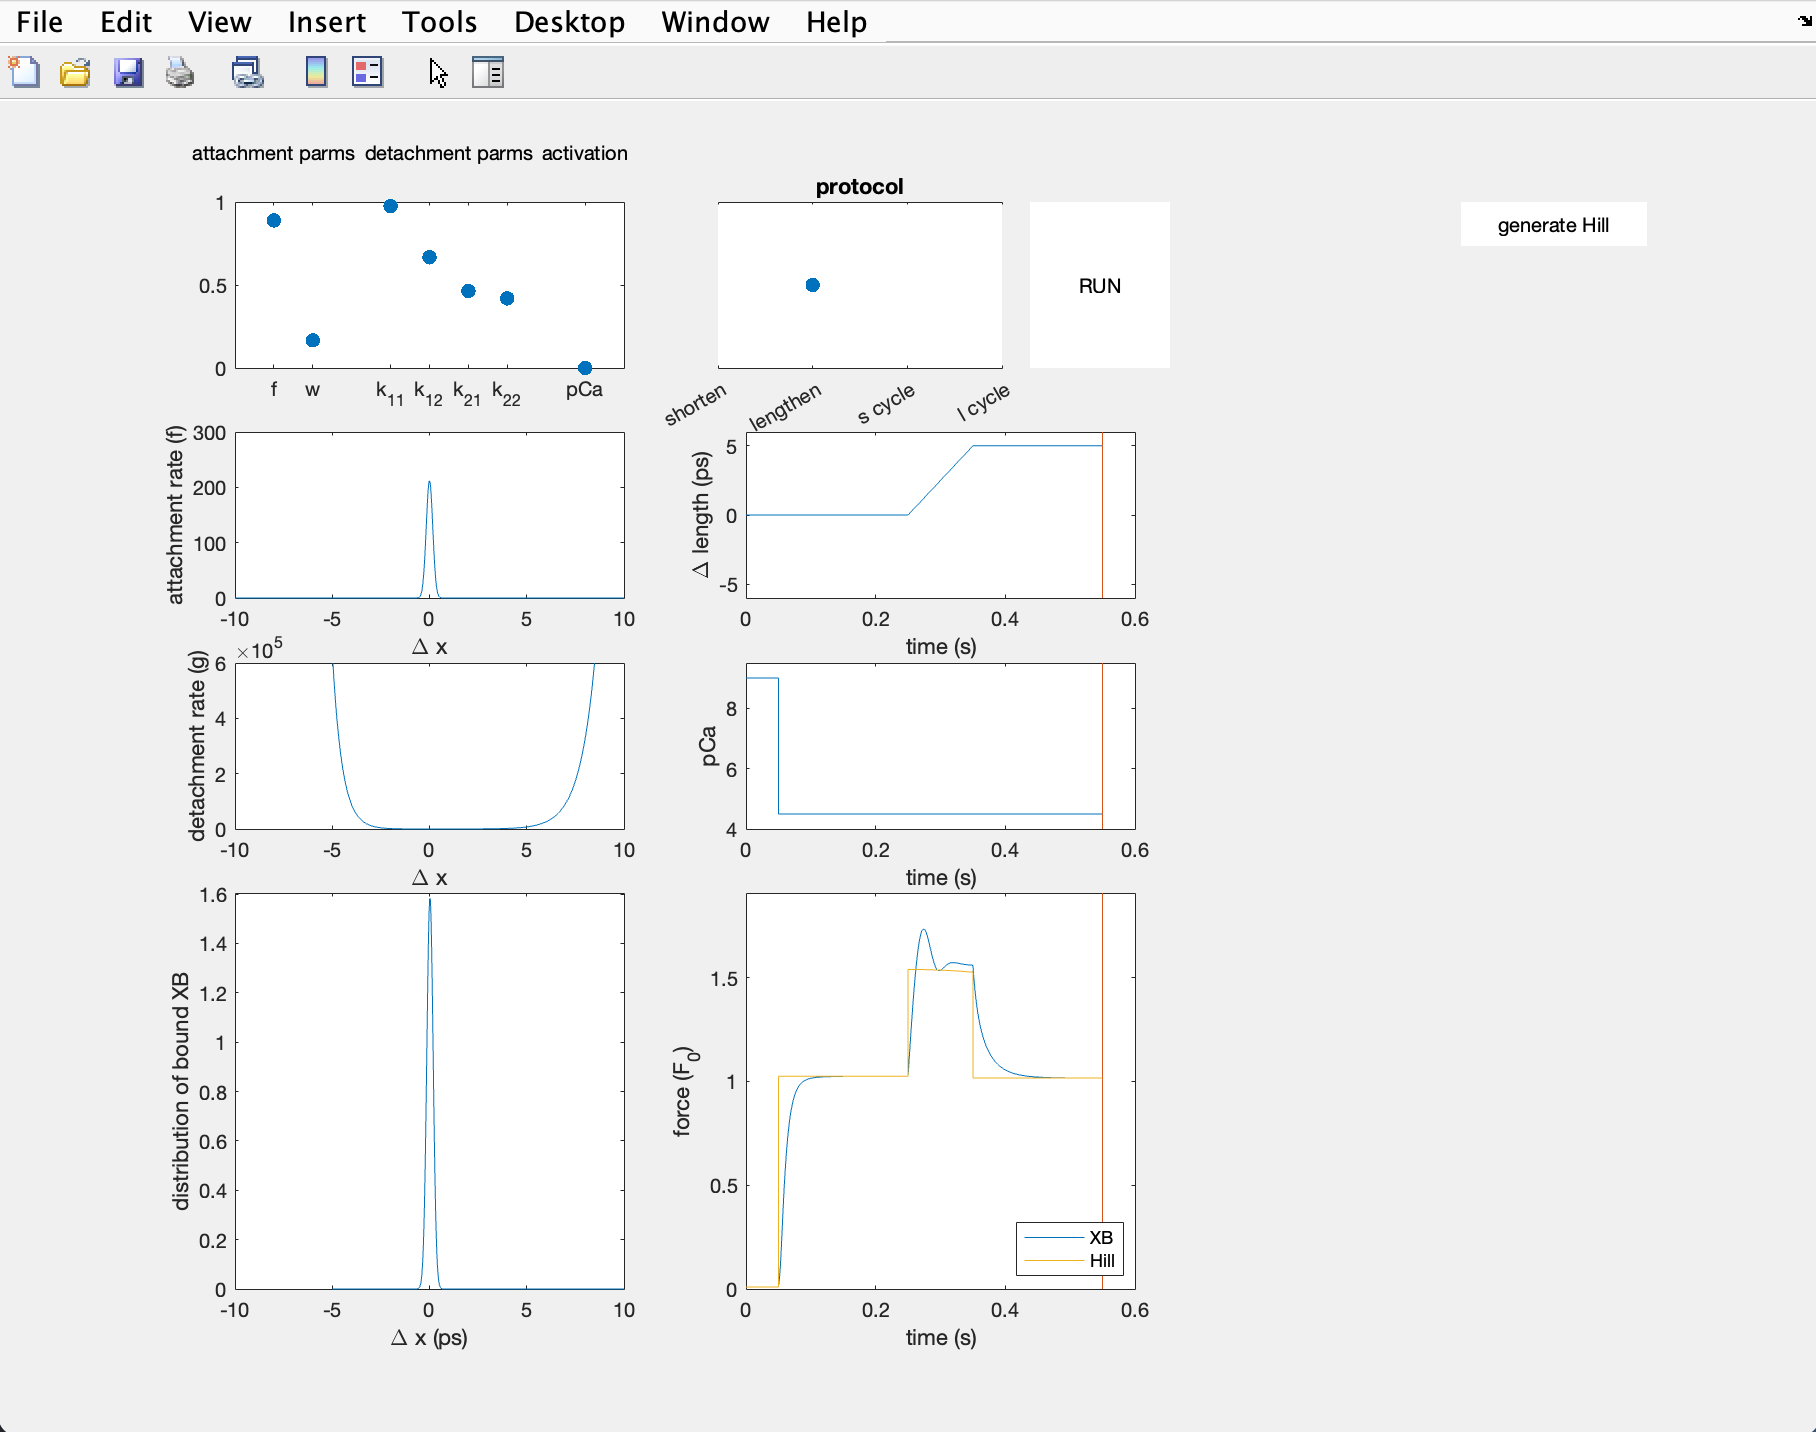
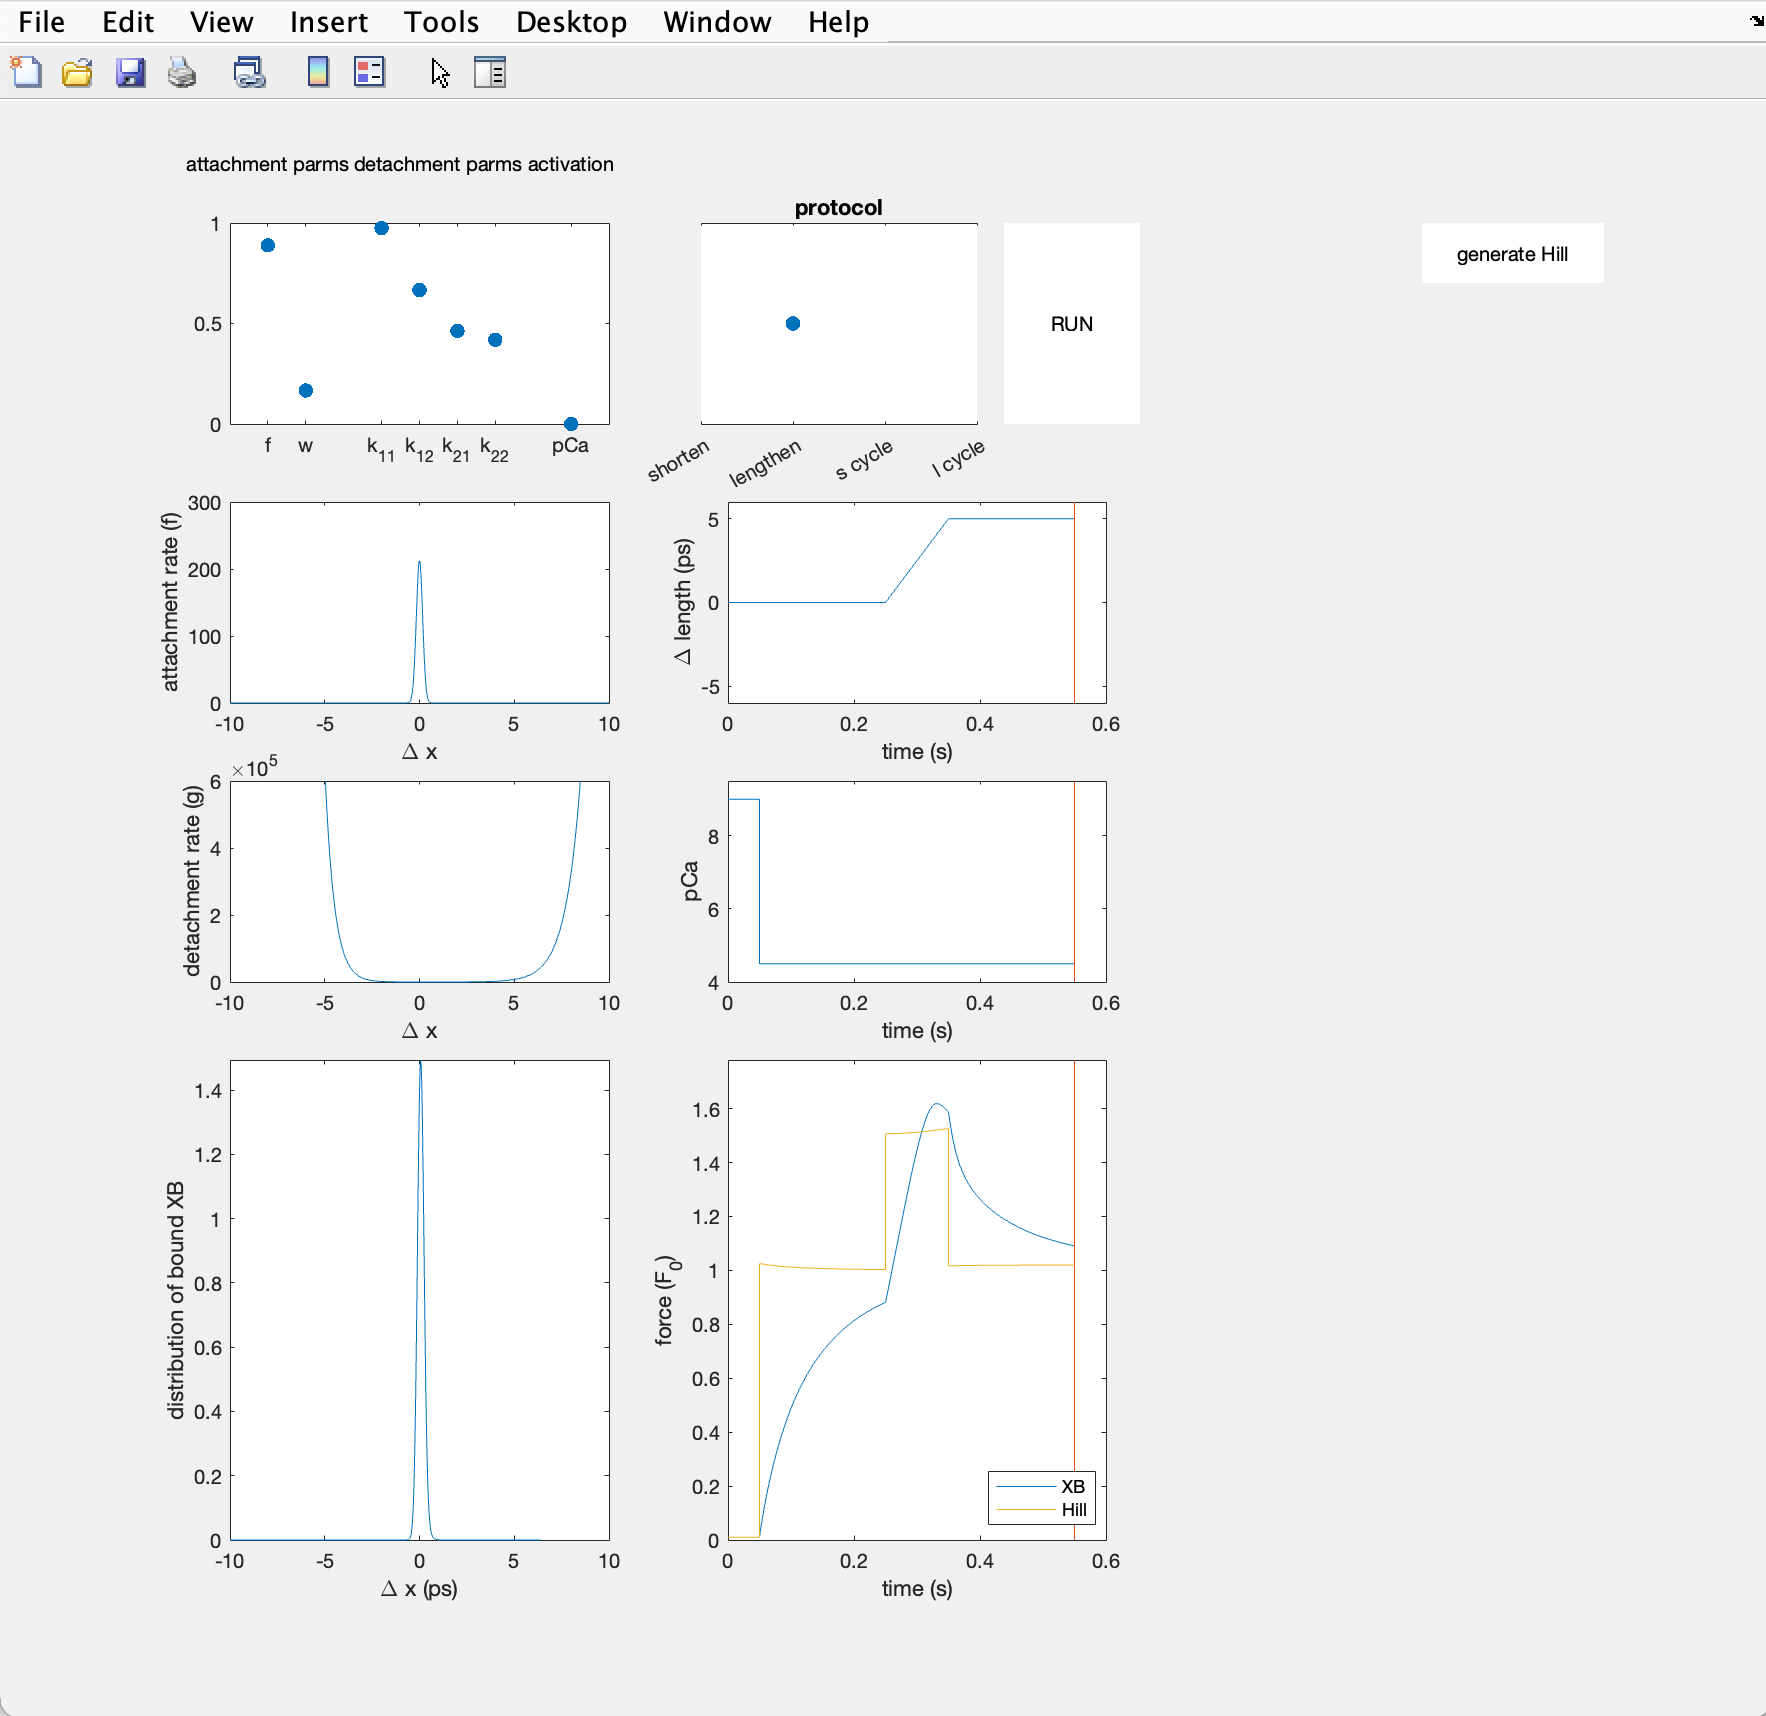
readMe updates

diff --git a/Part 1/tutorial/GUI_XB_n_Hill.m b/Part 1/tutorial/GUI_XB_n_Hill.m
@@ -11,10 +11,10 @@ nbins = 600;
 pCa = 4.5;
 Ca = 10^(-pCa+6);
 
-parms.forcible_detachment = 0;
-parms.kse = 0;
-parms.kpe = 0;
-parms.no_tendon = 1;
+% parms.forcible_detachment = 0;
+% parms.kse = 0;
+% parms.kpe = 0;
+% parms.no_tendon = 1;
 parms.act = 1;
 parms.cosa = 1;
 parms.Noverlap = 1;

diff --git a/Part 1/README.md b/Part 1/README.md
@@ -19,37 +19,55 @@ The model consists of:
 2. Crossbridges cycle between detached and attached states governed by attachment rate f(∆x) and detachement rate g(∆x), where ∆x is the length of crossbridge relative to its resting length.  
 3. Myosin heads (equvivalent to detached crossbridges) can also enter and leave a 'super-relaxed' state where they cannot attach to actin to form crossbridges. This is govered by entering rate function f<sub>SRX</sub> (muscle force) and leaving rate function g <sub> SRX </sub> (muscle force), where high muscle force can recruit more myosins from super relaxed state to be available for crossbridge attachment.
 
-## **Assignment 1.0: Start muscle model**
+## **Assignment 1.0: Run pre-set muscle model**
 1. Go to `ISB2025\Part 1\tutorial` and open the script called `GUI_XB_n_Hill.m`
 2. Run the code (F5 on Windows, F5 or Fn+F5 on mac). This will open a GUI as shown below
-3. Click at different time points on the force time series (bottom right) to see what the crossbridge distribution (bottom left) is at any given time.
-4. Can you intuit how the crossbridge distribution at a given time gives the force (blue line, bottom right) at that time?
-
 ![Alt text](images/first_gui_view.png)
+3. Click at different time points on the force time series (bottom right) to see what the crossbridge distribution (bottom left) is at any given time.
+![Alt text](images/xbridge vs time view.png)
+4. Can you intuit how the crossbridge distribution at a given time gives the force (blue line, bottom right) at that time? Note that muscle active force is given by:  
+	F = k<sub>cb</sub> · ∆x  
+	F<sub>total</sub> = ∑ F<sub>i</sub> (i=0 to number of bound crossbridges)
 
-The panel in the upper right allows you to set the values for parameters that change the rate functions for crossbridge attachment (f,w) and detachment (k11, k12, k21, k22). Although the model also contains states for cooperativity, these parameters cannot be modified within the GUI.
 
-If you would like to simulate the biophysical muscle model outside of the GUI, please see the Alternate Preparation section at the end of the this document.
+## **Assignment 1.1: Simulate effect of cross-bridge rate functions and activation on cross-bridge distribution and force development**
+1. Change the attachment and detachment rate parameters and calcium concentration (activation) by clicking at different points on the upper left plot.
+2. f and w change the attachment rate fucntion immediately below where you set these parameters.
+3. k11, k21 change the left half of the detachment rate function. k21, k22 change the right half of the detachment rate function. Detachment rate function can be found immediately below the attachment rate function.
+4. pCa is the calcium concentration which serves as the input activation. pCa = 4.5 = 100%, pCa = 9 = 0%.
+![Alt text](images/rate func parms.png)  
+5. This GUI only allows you to change the values for parameters that change the attachment (f,w) and detachment (k11, k12, k21, k22) rates. Although the model also contains states for cooperativity, these parameters cannot be modified within the GUI. If you would like to simulate the biophysical muscle model outside of the GUI, please see the Alternate Preparation section at the end of the this document.
+6. Click RUN to simulate how the crossbridge distributions change and generate force using the new paramters.
+![Alt text](images/rate func on force.png)
+7. Click at different time points on the force time series to see what the crossbridge distribution is at any given time and how it affects the force at each given time.
+8. Can you intuit how the rate functions affect the crossbridge distribution at steady-state and during stretch?
 
+## **Assignment 1.2: Simulate effect of muscle length change on cross-bridge distributions and force generation**
+1. Select the desired attachment and detachment rate parameters and calcium concentration as before.
+2. Click on the desired muscle stretch pattern (shorten, lengthen, s cycle, l cycle) to choose different muscle length changes.
+3. Click RUN to run the simulation for selected muscle length changes.
+![Alt text](images/protocol.png)
+4. Click at different time points on the force time series to see what the crossbridge distribution is at any given time and how it affects the force at each given time. 
+![Alt text](images/shorten force.png)
+5. Run 's cycle' and 'l cycle' protocol using differnet rate function parameters. Can you see the effect of crossbridge rate functions on the transient force and its history dependence?
+![Alt text](images/stretchShortenCycle.png)
 
-**Assignment 1.1: Effect of cross-bridge rate functions on cross-bridge distribution and force development (at fixed velocity and activation)**
-   While running the GUI (‘GUI_XB_n_Hill.m’), 
-  - Click on the force time series (bottom right) to visualize the crossbridge distribution (bottom left) underlying the force at that moment in time.
-  - Change the attachment and detachment rate parameters and calcium concentration (activation) by clicking on the upper left plot. Re-run the simulation to see how crossbridge distribution and force development are affected.
+## **Assignment 1.3: Characterize steady-state properties of the muscle fiber: force-velocity**
+1. Click `Generate Hill` to run the protocol that simulates stretches to generate a force-length and force-velocity curve based on your crossbridge rate function parameters.
+2. This runs a set of simulations where the muscle is held steady at differnt lengths.  
+![Alt text](images/FL_time series.png)  
+3. It plots the force at time 2s against length at 2s to generate a Hill-type force-length curve.  
+![Alt text](images/FL.png)
+4. This also runs a set of simulations where muscle is stretched or shotened at a constant velocity.  
+![Alt text](images/FV_time series.png)
+5. It plots the force at resting length against the velocity to generate a Hill-type force velocity curve.  
+![Alt text](images/FV.png)
+6. Now run differnt protocols to see how the biophysical model and Hill-type model forces compare.
+7. Change the rate function parameters and repeat.
+8. This protocol also generates a froce-pCa curve which allows you to visualize how pCa relates to the traditionally used Hill-type activation.  
+![Alt text](images/force pCa.png)
 
-**Assignment 1.2: Effect of muscle length change on cross-bridge distributions and force generation (at fixed velocity and activation)**
-   While running the GUI (‘GUI_XB_n_Hill.m’), 
-  - Select the desired attachment and detachment rate parameters and calcium concentration.
-  - Click on the desired muscle stretch pattern (ramp-and-hold, stretch-shorten cycles).
-  - Run the protocol to observe movement history effects on crossbridge distribution and force generation. 
-
-**Assignment 1.3: Simulations characterizing steady-state properties of the muscle fiber: force-velocity**
-   While running the GUI (‘GUI_XB_n_Hill.m’), 
-  - Run the protocol to simulate stretches to generate a force-length and force-velocity curve based on your XB model parameters. (click "Generate Hill") 
-  - Compare cross-bridge and Hill-type forces.
-  - Try different protocols and compare forces. 
-
-**Alternative 1.0: Preparation**
+## **Alternative 1.0: Preparation**
 If you like, you can simulate these muscle models without GUI and edit the code directly. 
   - *XB_n_Hill.m* allows you to set up attachment/detachment parameters, change activation and simulation protocols. 
   - *FL_FV_FpCa.m* allows you to set up attachment/detachment parameters and simulate stretches to generate a force-length, force-velocity and force-pCa curves. You can save these curves and load into *XB_n_Hill.m* to simulate muscle force based on Hill-type muscle model you generated.  
